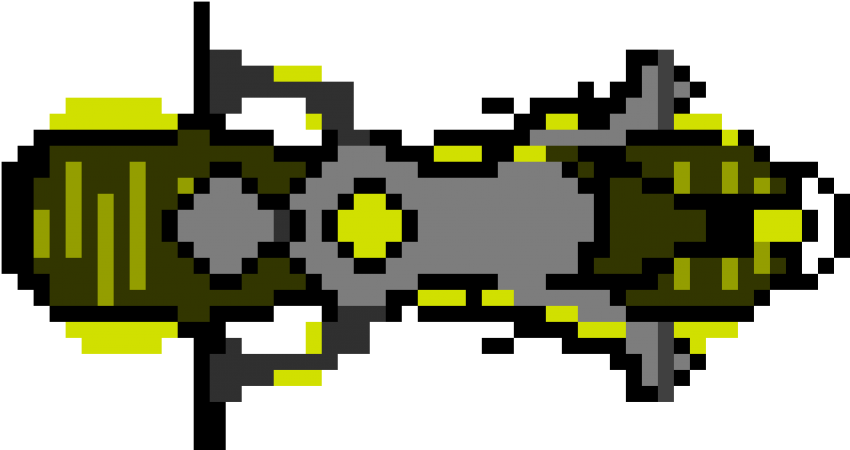
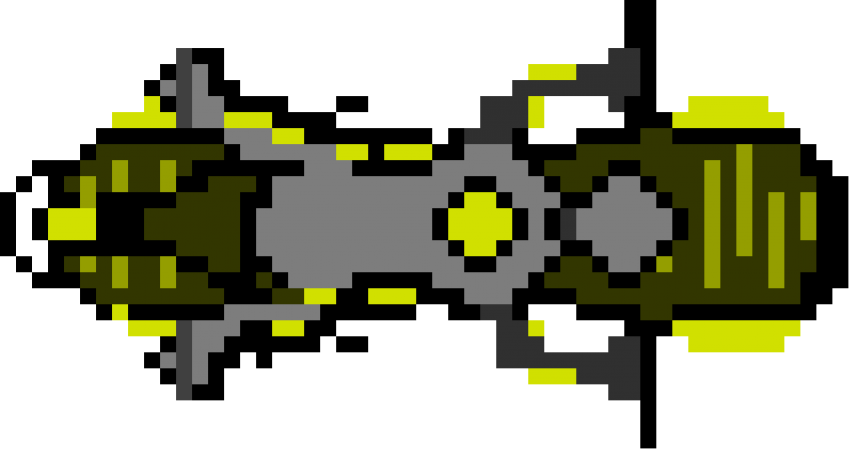
Tron - Ajout d'une ia

diff --git a/lib/games/tron/game/motorbike.dart b/lib/games/tron/game/motorbike.dart
@@ -2,7 +2,7 @@ import 'dart:ui';
 import 'package:collection/collection.dart';
 
 import 'package:flame/components.dart';
-import 'package:flame/palette.dart';
+import 'package:nam_ip_museum/games/tron/game/ia_motorbike.dart';
 import 'package:nam_ip_museum/games/tron/game/my_game.dart';
 
 import '../../direction.dart';
@@ -15,37 +15,38 @@ class MotorBike extends SpriteComponent with HasGameRef<TronGame> {
   List<Offset> points = [];
   List<List<int>> cases = [];
 
-  final double _width = (850 * (MyGame.offset - 2)) / 450;
-  final double _height = MyGame.offset - 2;
+  final double motorbikeWidth = (850 * (MyGame.offset - 2)) / 450;
+  final double motorbikeHeight = MyGame.offset - 2;
+  
+  Direction direction = Direction.idle;
+  Direction lastDirection = Direction.right; //for sprite
+  Direction lastDirectionForUpdate = Direction.right; //for update override method
 
   MotorBike(this.color);
 
   @override
   Future<void>? onLoad() async {
-    sprite = await Sprite.load("tron/motorbike/yellow_motorbike_left.png");
-    width = _width;
-    height = _height;
-    //position = Vector2(30, (gameRef.size.x - GameBackground.padding)/2 - height/2);
-    position = Vector2(_width/2, _height/2);
+    sprite = await Sprite.load("tron/motorbike/yellow_motorbike_right.png");
+    width = motorbikeWidth;
+    height = motorbikeHeight;
+    position = Vector2(MyGame.offset * 3, MyGame.nbCase~/2 * MyGame.offset + MyGame.offset/2);
     points.add(position.toOffset());
     anchor = Anchor.center;
     return super.onLoad();
   }
-
-  Direction lastDirectionForUpdate = Direction.right;
 
   @override
   void update(double dt) {
     if (points.isNotEmpty) {
       points.removeAt(points.length - 1);
     }
-    if  (gameRef.motorbikeDirection != lastDirectionForUpdate && gameRef.motorbikeDirection != Direction.idle) {
-      points.add(Offset(_getCase()[1] * MyGame.offset + MyGame.offset/2, _getCase()[0] * MyGame.offset + MyGame.offset/2));
-      _getSprite();
+    if  (direction != lastDirectionForUpdate && direction != Direction.idle) {
+      points.add(Offset(getCase()[1] * MyGame.offset + MyGame.offset/2, getCase()[0] * MyGame.offset + MyGame.offset/2));
+      getSprite();
     }
     points.add(position.toOffset());
-    lastDirectionForUpdate = gameRef.motorbikeDirection;
-    switch(gameRef.motorbikeDirection) {
+    lastDirectionForUpdate = direction;
+    switch(direction) {
       case Direction.up:
         position.add(Vector2(0, -speed * dt));
         break;
@@ -61,12 +62,17 @@ class MotorBike extends SpriteComponent with HasGameRef<TronGame> {
       default:
         break;
     }
-    List<int> _case = _getCase();
+    List<int> _case = getCase();
     if (cases.isEmpty || !(const ListEquality().equals(cases.last, _case))) {
-      if (_outOfBounds(_case[0]) || _outOfBounds(_case[1]) || gameRef.isOccupied[_case[0]][_case[1]]) {
-        //gameRef.gameOver(); //TODO GameOver
-        gameRef.motorbikeDirection = Direction.idle;
-        //points = [];
+      if (outOfBounds(_case[0]) || outOfBounds(_case[1]) || gameRef.isOccupied[_case[0]][_case[1]]) {
+        if (this is IaMotorbike) {
+          gameRef.removeIaMotorbike();
+        } else {
+          gameRef.gameOver();
+        }
+        direction = Direction.idle;
+        points = [];
+        cases = [];
       } else {
         cases.add(_case);
         gameRef.isOccupied[_case[0]][_case[1]] = true;
@@ -75,46 +81,46 @@ class MotorBike extends SpriteComponent with HasGameRef<TronGame> {
     super.update(dt);
   }
 
-  List<int> _getCase() {
+  List<int> getCase() {
     return [(position.y / MyGame.offset).floor(), (position.x / MyGame.offset).floor()];
   }
 
-  bool _outOfBounds(int c) {
+  bool outOfBounds(int c) {
     return c < 0 || c >= 30; //TODO MySharedPreferences
   }
 
-  @override
-  void render(Canvas canvas) {
-    canvas.drawRect(Rect.fromCenter(center: Offset(width/2, height/2), width: 1, height: 30), paint..color = BasicPalette.red.color);
-    canvas.drawRect(Rect.fromCenter(center: Offset(width/2, height/2), width: 50, height: 1), paint..color = BasicPalette.red.color);
-    super.render(canvas);
-  }
+  // @override
+  // void render(Canvas canvas) {
+  //   canvas.drawRect(Rect.fromCenter(center: Offset(width/2, height/2), width: 1, height: 30), paint..color = BasicPalette.red.color);
+  //   canvas.drawRect(Rect.fromCenter(center: Offset(width/2, height/2), width: 50, height: 1), paint..color = BasicPalette.red.color);
+  //   super.render(canvas);
+  // }
 
-  Future<void> _getSprite() async {
-    switch (gameRef.lastDirection) {
+  Future<void> getSprite() async {
+    switch (lastDirection) {
       case Direction.right:
         sprite = await Sprite.load("tron/motorbike/yellow_motorbike_right.png");
-        width = _width;
-        height = _height;
-        y = _getCase()[0] * MyGame.offset + MyGame.offset/2;
+        width = motorbikeWidth;
+        height = motorbikeHeight;
+        y = getCase()[0] * MyGame.offset + MyGame.offset/2;
         break;
       case Direction.left:
         sprite = await Sprite.load("tron/motorbike/yellow_motorbike_left.png");
-        width = _width;
-        height = _height;
-        y = _getCase()[0] * MyGame.offset + MyGame.offset/2;
+        width = motorbikeWidth;
+        height = motorbikeHeight;
+        y = getCase()[0] * MyGame.offset + MyGame.offset/2;
         break;
       case Direction.up:
         sprite = await Sprite.load("tron/motorbike/yellow_motorbike_up.png");
-        width = _height;
-        height = _width;
-        x = _getCase()[1] * MyGame.offset + MyGame.offset/2;
+        width = motorbikeHeight;
+        height = motorbikeWidth;
+        x = getCase()[1] * MyGame.offset + MyGame.offset/2;
         break;
       case Direction.down:
         sprite = await Sprite.load("tron/motorbike/yellow_motorbike_down.png");
-        width = _height;
-        height = _width;
-        x = _getCase()[1] * MyGame.offset + MyGame.offset/2;
+        width = motorbikeHeight;
+        height = motorbikeWidth;
+        x = getCase()[1] * MyGame.offset + MyGame.offset/2;
         break;
       default:
         break;

diff --git a/lib/games/tron/game/ia_motorbike.dart b/lib/games/tron/game/ia_motorbike.dart
@@ -1,0 +1,102 @@
+import 'dart:math';
+import 'dart:ui';
+
+import 'package:flame/components.dart';
+import 'package:nam_ip_museum/games/tron/game/motorbike.dart';
+
+import '../../direction.dart';
+import 'my_game.dart';
+
+class IaMotorbike extends MotorBike {
+
+  String difficulty = "easy";
+
+  double clock = 0;
+
+  IaMotorbike(Color color) : super(color) {
+    lastDirection = Direction.left;
+    lastDirectionForUpdate = Direction.left;
+  }
+
+  @override
+  Future<void>? onLoad() async {
+    sprite = await Sprite.load("tron/motorbike/yellow_motorbike_left.png");
+    width = motorbikeWidth;
+    height = motorbikeHeight;
+    position = Vector2(MyGame.offset * (MyGame.nbCase - 3), MyGame.nbCase~/2 * MyGame.offset + MyGame.offset/2);
+    points.add(position.toOffset());
+    anchor = Anchor.center;
+  }
+
+  void updateDirection() {
+    switch (difficulty) {
+      case "easy":
+        Direction d = getEasyDirection();
+        direction = d;
+        lastDirection = d;
+        break;
+      default:
+        break;
+    }
+  }
+
+  @override
+  void update(double dt) {
+    if (gameRef.myGame.motorbike.direction == Direction.idle) {
+      direction = Direction.idle;
+    } else {
+      clock += dt;
+      if (clock > 0.1) {
+        //print("clock${Random().nextInt(100)}");
+        updateDirection();
+        clock = 0;
+      }
+    }
+
+    super.update(dt);
+  }
+
+  Direction getEasyDirection() {
+    List<Direction> directions = [];
+    if (!outOfBounds(getCase()[0] - 1) && !gameRef.isOccupied[getCase()[0] - 1][getCase()[1]]) {
+      directions.add(Direction.up);
+      if (direction == Direction.up) {
+        directions.add(Direction.up);
+        directions.add(Direction.up);
+        directions.add(Direction.up);
+        directions.add(Direction.up);
+      }
+    }
+    if (!outOfBounds(getCase()[0] + 1) && !gameRef.isOccupied[getCase()[0] + 1][getCase()[1]]) {
+      directions.add(Direction.down);
+      if (direction == Direction.down) {
+        directions.add(Direction.down);
+        directions.add(Direction.down);
+        directions.add(Direction.down);
+        directions.add(Direction.down);
+      }
+    }
+    if (!outOfBounds(getCase()[1] - 1) && !gameRef.isOccupied[getCase()[0]][getCase()[1] - 1]) {
+      directions.add(Direction.left);
+      if (direction == Direction.left) {
+        directions.add(Direction.left);
+        directions.add(Direction.left);
+        directions.add(Direction.left);
+        directions.add(Direction.left);
+      }
+    }
+    if (!outOfBounds(getCase()[1] + 1) && !gameRef.isOccupied[getCase()[0]][getCase()[1] + 1]) {
+      directions.add(Direction.right);
+      if (direction == Direction.right) {
+        directions.add(Direction.right);
+        directions.add(Direction.right);
+        directions.add(Direction.right);
+        directions.add(Direction.right);
+      }
+    }
+    if (directions.isEmpty) {
+      return Direction.idle;
+    }
+    return directions[Random().nextInt(directions.length)];
+  }
+}

diff --git a/lib/games/tron/joystick/joystick.dart b/lib/games/tron/joystick/joystick.dart
@@ -66,27 +66,27 @@ class Joystick extends PositionComponent with HasGameRef<TronGame>, Tappable {
     // }
     switch (index) {
       case 0:
-        if (gameRef.lastDirection != Direction.down) {
-          gameRef.motorbikeDirection = Direction.up;
-          gameRef.lastDirection = Direction.up;
+        if (gameRef.myGame.motorbike.lastDirection != Direction.down) {
+          gameRef.myGame.motorbike.direction = Direction.up;
+          gameRef.myGame.motorbike.lastDirection = Direction.up;
         }
         break;
       case 1:
-        if (gameRef.lastDirection != Direction.up) {
-          gameRef.motorbikeDirection = Direction.down;
-          gameRef.lastDirection = Direction.down;
+        if (gameRef.myGame.motorbike.lastDirection != Direction.up) {
+          gameRef.myGame.motorbike.direction = Direction.down;
+          gameRef.myGame.motorbike.lastDirection = Direction.down;
         }
         break;
       case 2:
-        if (gameRef.lastDirection != Direction.right && gameRef.lastDirection != Direction.idle) {
-          gameRef.motorbikeDirection = Direction.left;
-          gameRef.lastDirection = Direction.left;
+        if (gameRef.myGame.motorbike.lastDirection != Direction.right && gameRef.myGame.motorbike.lastDirection != Direction.idle) {
+          gameRef.myGame.motorbike.direction = Direction.left;
+          gameRef.myGame.motorbike.lastDirection = Direction.left;
         }
         break;
       case 3:
-        if (gameRef.lastDirection != Direction.left) {
-          gameRef.motorbikeDirection = Direction.right;
-          gameRef.lastDirection = Direction.right;
+        if (gameRef.myGame.motorbike.lastDirection != Direction.left) {
+          gameRef.myGame.motorbike.direction = Direction.right;
+          gameRef.myGame.motorbike.lastDirection = Direction.right;
         }
         break;
     }

diff --git a/lib/games/tron/game/my_game.dart b/lib/games/tron/game/my_game.dart
@@ -3,6 +3,7 @@ import 'dart:ui';
 import 'package:flame/collisions.dart';
 import 'package:flame/components.dart';
 import 'package:flame/palette.dart';
+import 'package:nam_ip_museum/games/tron/game/ia_motorbike.dart';
 import 'package:nam_ip_museum/games/tron/game/motorbike.dart';
 import 'package:nam_ip_museum/games/tron/game/wall.dart';
 import 'package:nam_ip_museum/games/tron/tron_game.dart';
@@ -16,15 +17,19 @@ class MyGame extends PositionComponent with HasGameRef<TronGame> {
 
   // https://color.adobe.com/fr/TRON-color-theme-6970180/
   late MotorBike motorbike;
+  late IaMotorbike iaMotorbike;
 
   @override
   Future<void>? onLoad() {
     offset = (gameRef.size.x - 2 * padding) / nbCase;
     motorbike = MotorBike(const Color(0xFFFFE64D));
+    iaMotorbike = IaMotorbike(const Color(0xFF6FC3DF));
     position = Vector2(padding, padding);
     size = Vector2(gameRef.size.x - 2 * padding, gameRef.size.x - 2 * padding);
     add(Wall(motorbike));
     add(motorbike);
+    add(Wall(iaMotorbike));
+    add(iaMotorbike);
     return super.onLoad();
   }
 

diff --git a/lib/games/tron/tron_game.dart b/lib/games/tron/tron_game.dart
@@ -3,20 +3,25 @@ import 'package:nam_ip_museum/games/tron/background.dart';
 import 'package:nam_ip_museum/games/tron/game/my_game.dart';
 import 'package:nam_ip_museum/games/tron/joystick/joystick.dart';
 
-import '../direction.dart';
-
 class TronGame extends FlameGame with HasTappables {
 
-  Direction motorbikeDirection = Direction.idle;
-  Direction lastDirection = Direction.right;
-
   List<List<bool>> isOccupied = List.generate(30, (index) => List.generate(30, (index) => false)); //TODO MySharedPreferences
+  final MyGame myGame = MyGame();
 
   @override
   Future<void>? onLoad() {
     add(Background());
     add(Joystick());
-    add(MyGame());
+    add(myGame);
     return super.onLoad();
+  }
+
+  void gameOver() {
+    //TODO
+  }
+
+  void removeIaMotorbike() {
+    myGame.remove(myGame.iaMotorbike);
+    //TODO win if no iaMotorbike
   }
 }

diff --git a/lib/games/tron/game/wall.dart b/lib/games/tron/game/wall.dart
@@ -24,7 +24,6 @@ class Wall extends Component with HasGameRef<TronGame>, CollisionCallbacks {
         canvas.drawArc(Rect.fromCircle(center: motorbike.points[i], radius: 2.5), startAngle, pi/2, true, paint);
       }
     }
-
     super.render(canvas);
   }
 
